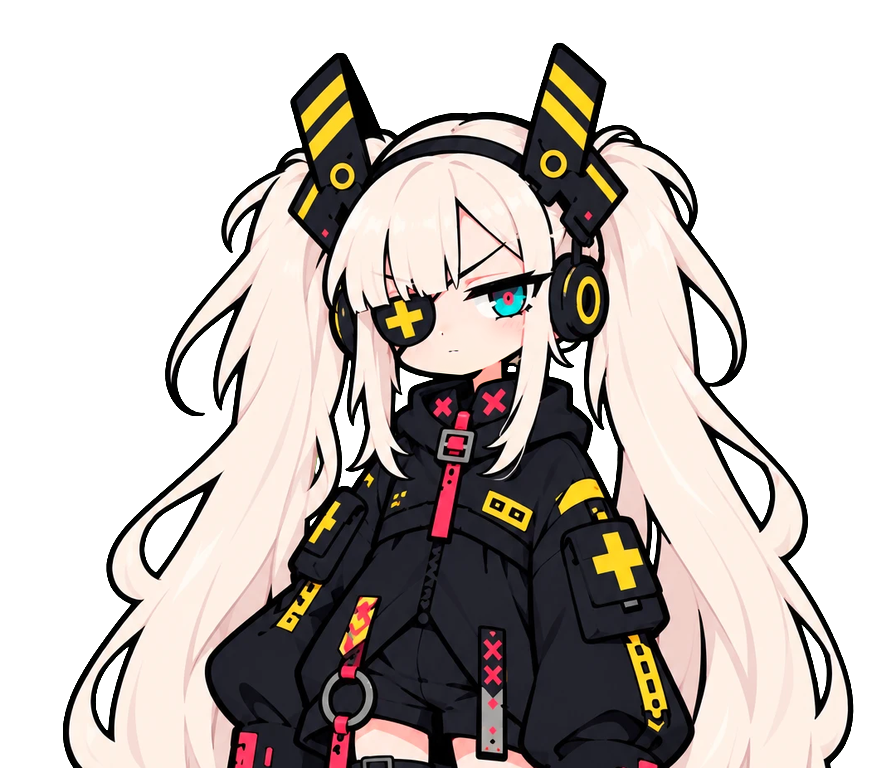
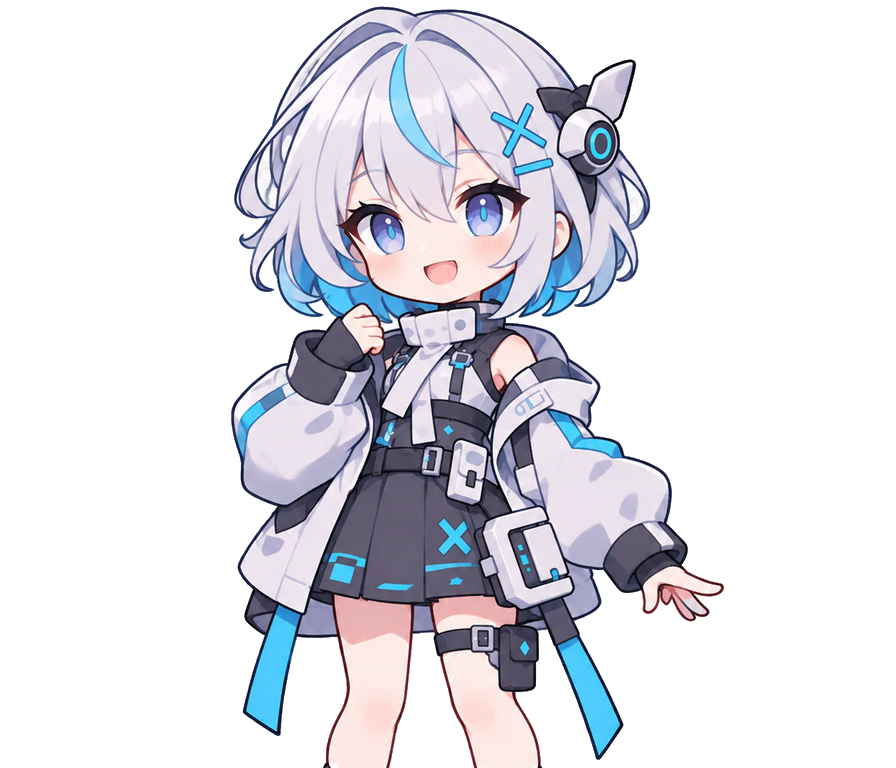
feat: new character, clearer notification subject, optional Gmail mail, publish-site workflow

diff --git a/radio/notify.py b/radio/notify.py
@@ -1,0 +1,75 @@
+"""Step 12 (optional): send the "show is ready" mail through Gmail, with a clear subject.
+
+Runs only when GMAIL_ADDRESS and GMAIL_APP_PASSWORD are set (GitHub Secrets). The mail goes from
+your own address to NOTIFY_TO (default: the same address), so it lands in your inbox, not under a filter
+for GitHub notifications. The app password is read from the environment and never printed.
+"""
+from __future__ import annotations
+
+import argparse
+import datetime as dt
+import os
+import smtplib
+import sys
+from email.message import EmailMessage
+
+from .config import EPISODES_DIR, RadioError, read_json
+from .guide import CORNER_NAMES
+from .site import site_url
+
+WEEK = "月火水木金土日"
+
+
+def subject(date: str, title: str) -> str:
+    d = dt.date.fromisoformat(date)
+    return f"【AIラジオ】{d.month}/{d.day}({WEEK[d.weekday()]}) {title}"
+
+
+def body(date: str) -> str:
+    base = site_url()
+    ep = read_json(EPISODES_DIR / f"{date}-ja.json")
+    lines = [ep["title"], f"（約{round(ep['seconds'] / 60)}分）", "", f"▶ 放送を聴く\n{base}#{date}/ja", "",
+             f"📘 実践ガイド\n{base}guides/{date}.html", "", "■ 今日の内容"]
+    for n in ep["news"]:
+        if n.get("corner") == "experiment":
+            lines.append(f"🧪 今日の実験：{n.get('name') or n['label']}\n   {base}{n['guide']}")
+        else:
+            lines.append(f"・{CORNER_NAMES.get(n.get('corner'), '')}｜{n['label']}\n   {n['url']}")
+    return "\n".join(lines) + "\n\n— AI Discovery & Build Radio（自動送信）\n"
+
+
+def send(date: str) -> None:
+    sender, password = os.environ.get("GMAIL_ADDRESS"), os.environ.get("GMAIL_APP_PASSWORD")
+    if not sender or not password:
+        raise RadioError("GMAIL_ADDRESS / GMAIL_APP_PASSWORD are not set")
+    ep = read_json(EPISODES_DIR / f"{date}-ja.json")
+    msg = EmailMessage()
+    msg["Subject"] = subject(date, ep["title"])
+    msg["From"] = f"AI Discovery & Build Radio <{sender}>"
+    msg["To"] = os.environ.get("NOTIFY_TO") or sender
+    msg.set_content(body(date))
+    with smtplib.SMTP_SSL("smtp.gmail.com", 465, timeout=60) as s:
+        s.login(sender, password)
+        s.send_message(msg)
+    print(f"mail sent: {msg['Subject']}")
+
+
+def main(argv=None) -> int:
+    ap = argparse.ArgumentParser(description=__doc__)
+    ap.add_argument("date")
+    ap.add_argument("--dry-run", action="store_true", help="print the subject and body only")
+    args = ap.parse_args(argv)
+    if args.dry_run:
+        ep = read_json(EPISODES_DIR / f"{args.date}-ja.json")
+        print(subject(args.date, ep["title"]))
+        print(body(args.date))
+        return 0
+    try:
+        send(args.date)
+    except (smtplib.SMTPException, OSError) as e:
+        raise RadioError(f"mail not sent: {type(e).__name__}") from None
+    return 0
+
+
+if __name__ == "__main__":
+    sys.exit(main())

diff --git a/tests/test_notify.py b/tests/test_notify.py
@@ -1,0 +1,16 @@
+from radio import notify
+
+
+def test_subject_has_date_weekday_and_title():
+    assert notify.subject("2026-11-10", "テスト放送") == "【AIラジオ】11/10(火) テスト放送"
+
+
+def test_body_lists_links_and_experiment(monkeypatch):
+    ep = {"title": "T (beta)", "seconds": 453, "news": [
+        {"corner": "news", "label": "見出し", "url": "https://example.com/a"},
+        {"corner": "experiment", "label": "今日の実験", "name": "小さな実験", "guide": "guides/2026-11-10.html#experiment"}]}
+    monkeypatch.setattr(notify, "read_json", lambda path: ep)
+    monkeypatch.setattr(notify, "site_url", lambda: "https://example.github.io/radio/")
+    text = notify.body("2026-11-10")
+    assert "T (beta)" in text and "https://example.github.io/radio/#2026-11-10/ja" in text
+    assert "https://example.com/a" in text and "🧪 今日の実験：小さな実験" in text

diff --git a/docs/character.md b/docs/character.md
@@ -1,0 +1,60 @@
+# キャラクターの変え方
+
+プレーヤーは `character/character.json` を読んで、キャラを表示します（形の詳細は [formats.md](formats.md)）。
+
+## 1. いちばん簡単：1 枚絵だけ（いまの状態）
+
+1. 背景が**本当に透明**な PNG を用意する（市松模様が「絵として」描かれた画像は不可。下の「背景の透明化」）
+2. 896×768 ピクセルに収める（上半身〜ひざくらいまでが映る横長の枠）
+3. `character/base.png` を置き換える
+4. `character/character.json` は次のままでよい
+
+```json
+{"format": "myradio/character-1", "type": "sprites", "size": [896, 768], "background": "#161a26", "base": "base.png", "parts": {}}
+```
+
+5. コミットして push し、Actions の **publish-site** を実行すると（または次の放送で）サイトに反映されます
+
+この形では、口とまばたきは動きません（体の揺れ・視線の向きは動きます）。
+
+## 2. 口パク・まばたきを付ける（差分画像）
+
+同じ絵の「口だけ」「目だけ」を描き変えた画像を用意します。画像生成 AI の編集機能（例：「この画像の口を閉じて」「目を閉じて」）で作れます。**輪郭・位置・大きさを変えずに**描き変えるのがコツです。
+
+| ファイル | 中身 | 用途 |
+|---|---|---|
+| `base.png` | **口を閉じた**正面の絵（全体） | いつもの姿 |
+| `mouth_half.png` | 口のまわりだけ切り出した「半開き」 | 話している途中 |
+| `mouth_open.png` | 口のまわりだけ切り出した「開き」 | 話している途中 |
+| `blink.png` | 目のまわりだけ切り出した「閉じた目」 | まばたき |
+| `half_blink.png` | （任意）半目 | まばたきを滑らかに |
+| `smile_mouth.png` | （任意）笑顔の口 | エンディング |
+
+切り出した画像を `base.png` のどこに重ねるか（左上の x, y）を `character.json` に書きます。
+
+```json
+{
+ "format": "myradio/character-1", "type": "sprites", "size": [896, 768], "background": "#161a26",
+ "base": "base.png",
+ "parts": {
+  "mouth_half": {"src": "mouth_half.png", "x": 400, "y": 250},
+  "mouth_open": {"src": "mouth_open.png", "x": 400, "y": 250},
+  "blink":      {"src": "blink.png",      "x": 330, "y": 180}
+ },
+ "mouth": {"1": "mouth_half", "2": "mouth_open"},
+ "eye": {"blink": "blink"}
+}
+```
+
+**いちばん簡単な頼み方**：全体の絵を 3 枚（口を閉じた絵、口を開けた絵、目を閉じた絵）作って、Claude Code に「character/ の差分にして」と頼めば、切り出しと座標の計算はこちらで行えます。
+
+## 背景の透明化
+
+AI で作った画像は、透明に見えても市松模様が描き込まれていることがあります。
+
+- remove.bg（https://www.remove.bg/ja）、Canva の背景除去、iPhone / Mac の「被写体を持ち上げる」などで透明 PNG にする
+- 輪郭線がはっきりしたイラストなら、Claude Code に頼めば外側の背景を透明にできます（今回の `base.png` はこの方法）
+
+## 権利
+
+自分で作ったか、利用が許されている絵だけを使ってください。AI で作ったキャラは `station.json` の `character.note` にそう書きます。
